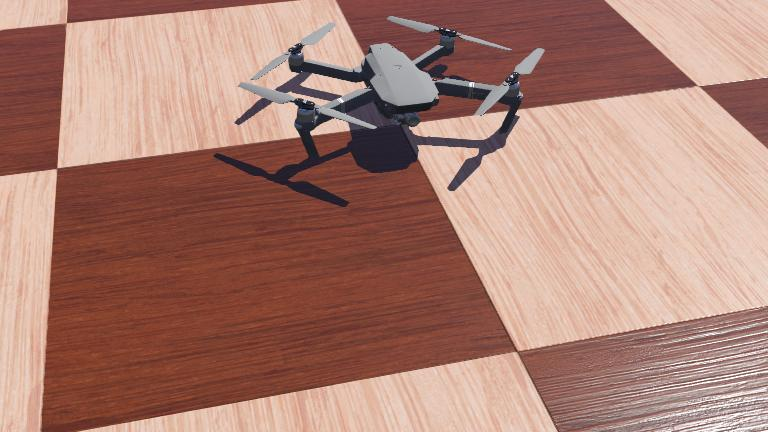
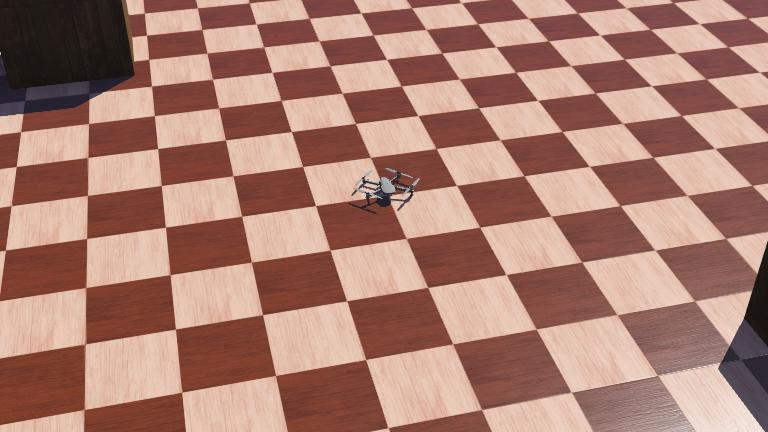
we got takeoff!

diff --git a/src/controllers/DroneController/DroneController.java b/src/controllers/DroneController/DroneController.java
@@ -24,9 +24,10 @@ import com.cyberbotics.webots.controller.Gyro;
  **/
 public class DroneController extends Robot {
   private static final int TIME_STEP = 64; // Simulation time step in milliseconds
-  private static final double MAX_VELOCITY = 2.0;
+  private static final double MAX_VELOCITY = 100;
+  private static final double TARGET_ALTITUDE = 1.0;
 
-  private Motor frontRightPropeller, frontLeftPropeller, rearRightPropeller, rearLeftPropeller;
+  private Motor frontRightPropeller, frontLeftPropeller, rearRightPropeller, rearLeftPropeller, cameraRollMotor, cameraPitchMotor;
   private Motor motors[];
   private LED frontLeftLED, frontRightLED;
   private InertialUnit imu;
@@ -67,8 +68,11 @@ public class DroneController extends Robot {
     
     for (Motor motor : motors) {
       motor.setPosition(Double.POSITIVE_INFINITY);
-      motor.setVelocity(0.10 * MAX_VELOCITY);
+      motor.setVelocity(0.10 * MAX_VELOCITY); // 10% of velocity to start
     }
+    
+    cameraRollMotor = getMotor("camera roll");
+    cameraPitchMotor = getMotor("camera pitch");
   }
   
   private void displayWelcomeMessage() {
@@ -103,28 +107,64 @@ public class DroneController extends Robot {
     }
   }
   
-  private void stabilizations(double roll, double rollVelocity, double rollDisturbance) {
-    ;
+  private void stabilizeCamera(double rollVelocity, double pitchVelocity) {
+    cameraRollMotor.setPosition(-0.115 * rollVelocity);
+    cameraPitchMotor.setPosition(-0.1 * pitchVelocity);
   }
   
-  private void actuators() {
-    ;
+  private double[] computeInputs(double roll, double altitude, double rollVelocity, double rollDisturbance, 
+                            double pitch, double pitchVelocity, double pitchDisturbance, double yawDisturbance) {
+    final double rollInput = K_ROLL_P * Math.min(Math.max(roll, -1.0), 1.0) + rollVelocity + rollDisturbance;
+    final double pitchInput = K_PITCH_P * Math.min(Math.max(pitch, -1.0), 1.0) + pitchVelocity + pitchDisturbance;
+    final double yawInput = yawDisturbance;
+    final double clampedDifferenceAltitude = Math.min(Math.max(TARGET_ALTITUDE - altitude + K_VERTICAL_OFFSET, -1.0), 1.0);
+    final double verticalInput = K_VERTICAL_P * Math.pow(clampedDifferenceAltitude, 3.0);
+    
+    return new double[] { rollInput, pitchInput, yawInput, verticalInput };
+  }
+  
+  private void activateActuators(double verticalInput, double rollInput, double pitchInput, double yawInput) {
+    final double frontLeftPropellerInput = K_VERTICAL_THRUST + verticalInput - rollInput + pitchInput - yawInput;
+    final double frontRightPropellerInput = K_VERTICAL_THRUST + verticalInput + rollInput + pitchInput + yawInput;
+    final double rearLeftPropellerInput = K_VERTICAL_THRUST + verticalInput - rollInput - pitchInput + yawInput;
+    final double rearRightPropellerInput = K_VERTICAL_THRUST + verticalInput + rollInput - pitchInput - yawInput;
+
+    frontLeftPropeller.setVelocity(frontLeftPropellerInput);
+    frontRightPropeller.setVelocity(-frontRightPropellerInput);
+    rearLeftPropeller.setVelocity(-rearLeftPropellerInput);
+    rearRightPropeller.setVelocity(rearRightPropellerInput);
   }
   
   // Main control loop
   public void run() {
     displayWelcomeMessage();
     while (step(TIME_STEP) != -1) {
+      double rollDisturbance = 0.0;
+      double pitchDisturbance = 0.0;
+      double yawDisturbance = 0.0;
+    
+      double[] robotState = getRobotState();
+      double roll = robotState[0];
+      double pitch = robotState[1];
+      double altitude = robotState[2];
+      double rollVelocity = robotState[3];
+      double pitchVelocity = robotState[4];
+    
       // Blink the front LEDs alternatively with a 1 second rate.
       blinkLEDS();
       
       // Stabilize the Camera by actuating the camera motors according to the gyro feedback.
-      
-      // Transform the keyboard input to disturbances on the stabilization algorithm.
+      stabilizeCamera(rollVelocity, pitchVelocity);
 
       // Compute the roll, pitch, yaw and vertical inputs.
+      double[] rpyvInputs = computeInputs(roll, altitude, rollVelocity, rollDisturbance, pitch, pitchVelocity, pitchDisturbance, yawDisturbance);
+      double rollInput = rpyvInputs[0];
+      double pitchInput = rpyvInputs[1];
+      double yawInput = rpyvInputs[2];
+      double verticalInput = rpyvInputs[3];
       
       // Actuate the motors taking into consideration all the computed inputs.
+      activateActuators(verticalInput, rollInput, pitchInput, yawInput);
     }
   }
   
